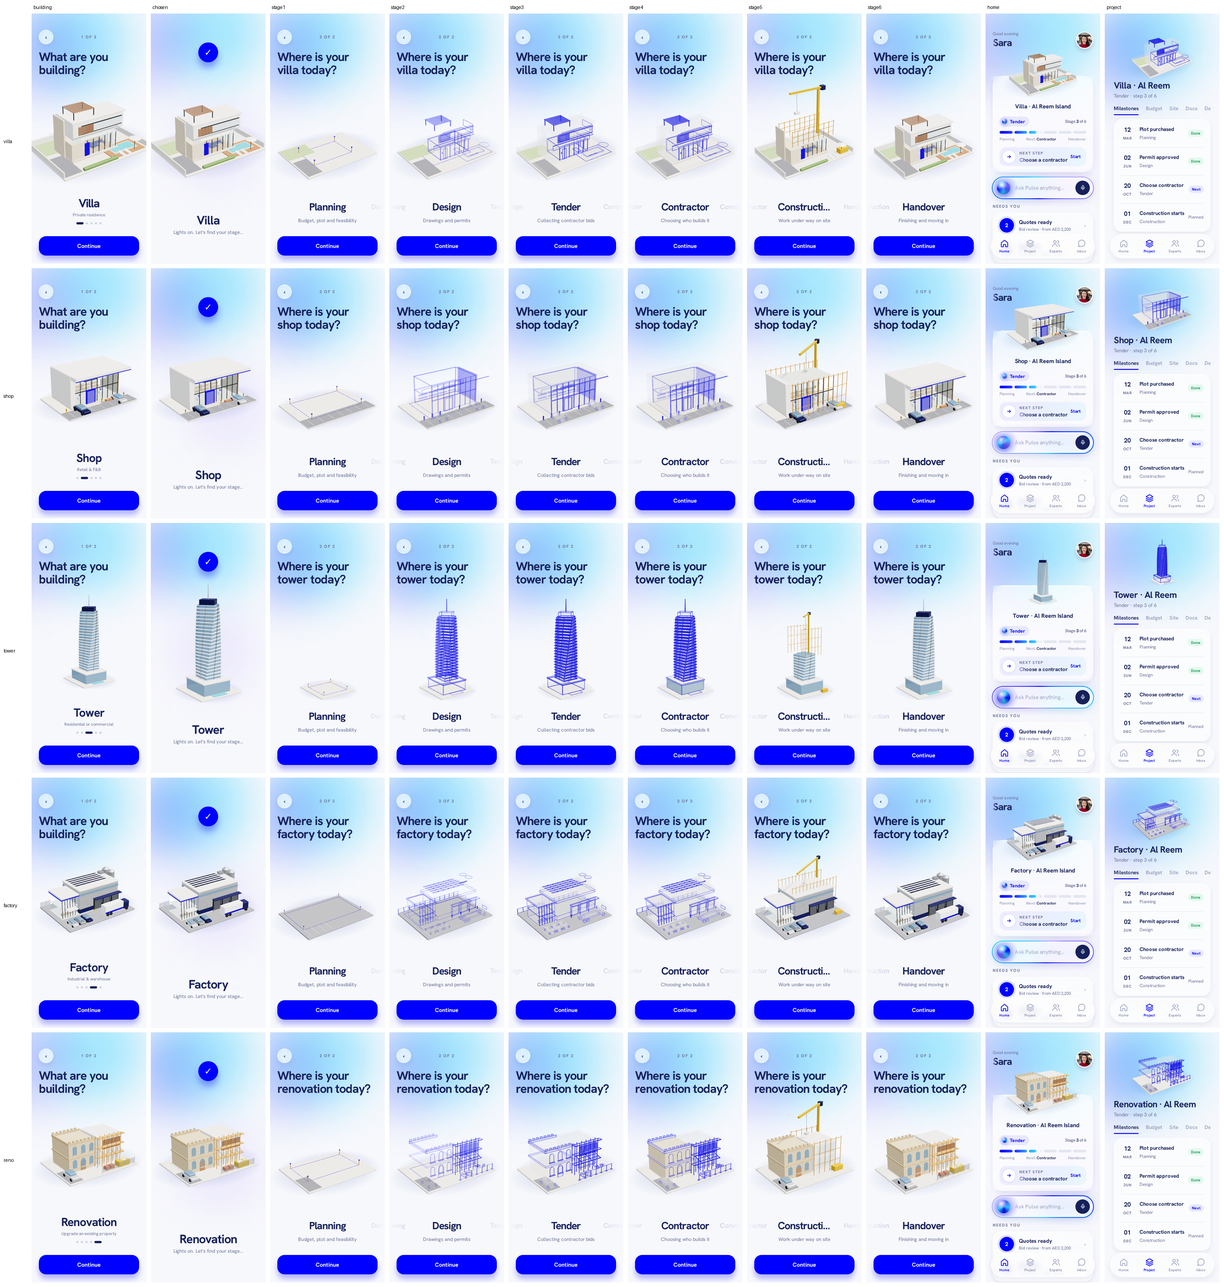
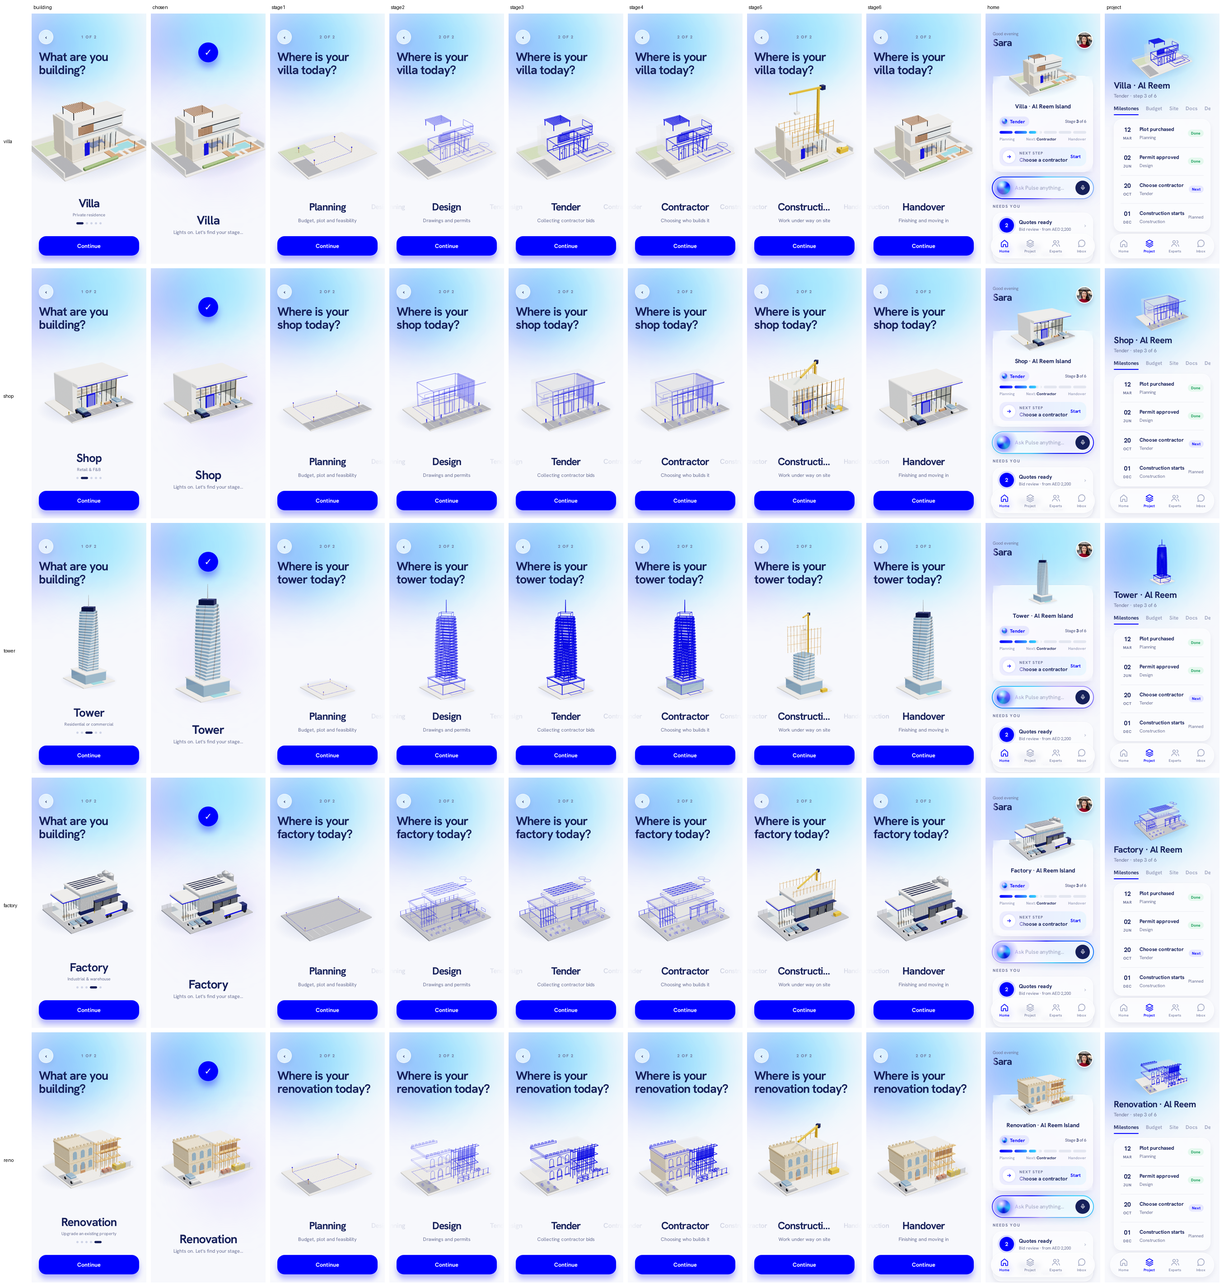
perf(mobile): 3D stage build and draw calls for mid-range Android (Task 3 review)
- EdgesGeometry cached by shape (type + parameters, tagged RoundedBox shape, or
  uuid) and threshold; shared across meshes, models and remounts.
- RoundedBoxGeometry shared per shape (the tower had 44 identical plates).
- Wireframe baked to world space and merged: one LineSegments + one indexed
  ghost mesh per model (2 draws instead of 150-274).
- Tower: stage build 740 ms -> 21 ms (warm) / 76 ms (cold); model build
  805 ms -> 12 ms (V8, jest).
- Framing box includes the stage props for the derived models, and their crane
  is capped just above the model top, so stage 5 is never clipped (e.g. the
  3.6:1 Project header). Villa framing unchanged.
- Aspect 0/NaN/Infinity guarded (frame for 1:1 until laid out).
- Single dispose path for the warm material; disposeModel test spies on the
  shared palette; crop test projects box corners through a real camera.

diff --git a/mobile/src/three/models.ts b/mobile/src/three/models.ts
@@ -3,6 +3,7 @@ import * as THREE from 'three';
 import { Platform } from 'react-native';
 import { RoundedBoxGeometry } from 'three/addons/geometries/RoundedBoxGeometry.js';
 import { noiseTex, stripeTex, contactTex } from './textures';
+import { modelBox } from './frame';
 
 const nz = noiseTex(), nzFine = noiseTex(128, 190, 70, 10);
 
@@ -52,10 +53,22 @@ export const M = {
 };
 
 // ---------- primitives ----------
+/** RoundedBoxGeometry reports the unit BoxGeometry it starts from as its type/parameters, so its real shape is tagged
+ *  here for the stage edge cache. */
+/** They are also the costliest primitive to generate (a tower has 44 identical floor plates), so one instance per shape
+ *  is shared by every mesh, model and remount. Disposing it on unmount only frees its GPU buffers; a later render
+ *  re-uploads them. */
+const RBOX = new Map<string, any>();
+function rbox(w, h, d, s, r) {
+  const key = `RoundedBox:${w},${h},${d},${s},${r}`;
+  let g = RBOX.get(key);
+  if (!g) { g = new RoundedBoxGeometry(w, h, d, s, r); g.userData.shape = key; g.computeBoundingBox(); RBOX.set(key, g); }
+  return g;
+}
 export function part(parent, w, h, d, mat, x, y, z, o = {}) {
   const g = new THREE.Group(); g.position.set(x, y, z);
   const r = o.round ?? 0;
-  const geo = r > 0 ? new RoundedBoxGeometry(w, h, d, 3, Math.min(r, w / 2.01, h / 2.01, d / 2.01)) : new THREE.BoxGeometry(w, h, d);
+  const geo = r > 0 ? rbox(w, h, d, 3, Math.min(r, w / 2.01, h / 2.01, d / 2.01)) : new THREE.BoxGeometry(w, h, d);
   const m = new THREE.Mesh(geo, mat); m.position.y = h / 2;
   if (o.ry) g.rotation.y = o.ry; if (o.rx) m.rotation.x = o.rx; if (o.rz) m.rotation.z = o.rz;
   m.castShadow = o.cast !== false && mat !== M.glass; m.receiveShadow = true; g.add(m);
@@ -144,8 +157,8 @@ export function buildTower() {
   const n = 22;
   for (let i = 0; i < n; i++) {
     const g = new THREE.Group(); g.position.y = 4 + i * 1.05; g.rotation.y = i * 0.035; g.userData.rise = 0.1 + i * 0.035; solid.add(g);
-    const slab = new THREE.Mesh(new RoundedBoxGeometry(6.2, 0.2, 6.2, 3, 0.09), M.white); slab.position.y = 0.1; slab.castShadow = slab.receiveShadow = true; g.add(slab);
-    const gl = new THREE.Mesh(new RoundedBoxGeometry(5.8, 0.85, 5.8, 3, 0.3), M.glassDark); gl.position.y = 0.625; g.add(gl);
+    const slab = new THREE.Mesh(rbox(6.2, 0.2, 6.2, 3, 0.09), M.white); slab.position.y = 0.1; slab.castShadow = slab.receiveShadow = true; g.add(slab);
+    const gl = new THREE.Mesh(rbox(5.8, 0.85, 5.8, 3, 0.3), M.glassDark); gl.position.y = 0.625; g.add(gl);
     for (const [fx, fz] of [[2.95, 0], [-2.95, 0], [0, 2.95], [0, -2.95]]) { const f = new THREE.Mesh(new THREE.BoxGeometry(fz ? 0.08 : 0.35, 0.85, fz ? 0.35 : 0.08), M.alu); f.position.set(fx, 0.625, fz); g.add(f); }
   }
   part(solid, 4.6, 1.6, 4.6, M.navy, 0, 4 + n * 1.05, 0, { rise: 0.9, round: 0.1, ry: n * 0.035 });
@@ -174,8 +187,8 @@ function archGeo(w, h, depth = 0.08) {
 }
 function car(parent, x, z, mat, ry = 0, rise = 1.0) {
   const g = grp(parent, rise); g.position.set(x, 0, z); g.rotation.y = ry;
-  mesh(g, new RoundedBoxGeometry(1.8, 0.62, 4.1, 3, 0.22), mat, 0, 0.55, 0);
-  mesh(g, new RoundedBoxGeometry(1.6, 0.55, 2.2, 3, 0.22), M.glassDark, 0, 1.05, -0.2);
+  mesh(g, rbox(1.8, 0.62, 4.1, 3, 0.22), mat, 0, 0.55, 0);
+  mesh(g, rbox(1.6, 0.55, 2.2, 3, 0.22), M.glassDark, 0, 1.05, -0.2);
   for (const [wx, wz] of [[-0.85, 1.3], [0.85, 1.3], [-0.85, -1.3], [0.85, -1.3]]) mesh(g, new THREE.CylinderGeometry(0.33, 0.33, 0.24, 18), M2.rubber, wx, 0.33, wz, 0, 0, Math.PI / 2);
   return g;
 }
@@ -259,9 +272,9 @@ export function buildFactory() {
   const pipe = grp(solid, 0.55); mesh(pipe, new THREE.CylinderGeometry(0.16, 0.16, 3, 12), M.alu, 11.0, 6.5, -5.05, 0, 0, Math.PI / 2);
   // articulated truck backing into dock 2
   const tr = grp(solid, 0.95); tr.position.set(4.6, 0, 6.8); tr.rotation.y = Math.PI / 2;
-  mesh(tr, new RoundedBoxGeometry(2.3, 2.7, 7, 3, 0.08), M.white, 0, 1.9, 0);
+  mesh(tr, rbox(2.3, 2.7, 7, 3, 0.08), M.white, 0, 1.9, 0);
   mesh(tr, new THREE.BoxGeometry(2.32, 0.5, 6.9), M.blue, 0, 1.1, 0);
-  mesh(tr, new RoundedBoxGeometry(2.3, 2.3, 2.1, 3, 0.25), M.navy, 0, 1.75, 4.7);
+  mesh(tr, rbox(2.3, 2.3, 2.1, 3, 0.25), M.navy, 0, 1.75, 4.7);
   mesh(tr, new THREE.BoxGeometry(2.0, 0.9, 0.05), M.glassDark, 0, 2.2, 5.76);
   for (const wz of [-2.6, -1.4, 4.8]) for (const wx of [-1.1, 1.1]) mesh(tr, new THREE.CylinderGeometry(0.5, 0.5, 0.35, 20), M2.rubber, wx, 0.5, wz, 0, 0, Math.PI / 2);
   // staff cars
@@ -362,23 +375,58 @@ export function deriveStageParams(v, o: Partial<StageParams> = {}): StageParams 
   const top = Math.max(core.max.y, next.max.y);
   const cx = core.max.x + 1.6, cz = core.min.z - 1.6, tx = (core.min.x + core.max.x) / 2, tz = (core.min.z + core.max.z) / 2;
   const dist = Math.hypot(tx - cx, tz - cz);
-  const crane = { x: r2(cx), z: r2(cz), h: r2(Math.max(12, top + 4)), ry: Math.atan2(tz - cz, -(tx - cx)), reach: r2(dist + 1.8),
-    hook: r2(dist * 0.75), loadY: r2(Math.min(top + 0.8, Math.max(12, top + 4) - 4.9)), ...o.crane };
+  // crane: clear of the built part, but no taller than just over the finished model, so the stage-5 props barely
+  // grow the framing box (low-rise models otherwise get a crane twice their height, clipped in short headers)
+  const full = riseBox(v.solid, -Infinity, Infinity);
+  const ch = Math.max(Math.min(Math.max(12, top + 4), full.max.y + 0.5), core.max.y + 1);
+  const crane = { x: r2(cx), z: r2(cz), h: r2(ch), ry: Math.atan2(tz - cz, -(tx - cx)), reach: r2(dist + 1.8),
+    hook: r2(dist * 0.75), loadY: r2(Math.max(1, Math.min(top + 0.8, ch - 4.9))), ...o.crane };
   return { footprint: fp, scaffold, crane, cabin: o.cabin ?? [r2(core.max.x - 1.2), r2(core.max.z + 1.8)], edgeAngle: o.edgeAngle };
+}
+
+// EdgesGeometry is the expensive part of a stage build (a tower has ~140 meshes but only a handful of distinct shapes).
+// Edge lists are cached by shape (geometry type + parameters, or uuid when it has none) and threshold, and shared
+// across meshes, models and remounts. They are plain arrays, never uploaded, so nothing here needs disposing.
+const EDGE_CACHE = new Map<string, Float32Array>();
+export const edgeCacheSize = () => EDGE_CACHE.size;
+function edgesOf(geo, angle): Float32Array {
+  const shape = geo.userData.shape ?? (geo.parameters && !(geo instanceof RoundedBoxGeometry) ? `${geo.type}:${JSON.stringify(geo.parameters)}` : geo.uuid);
+  const key = `${angle}|${shape}`;
+  let e = EDGE_CACHE.get(key);
+  if (!e) { const eg = new THREE.EdgesGeometry(geo, angle); e = eg.getAttribute('position').array as Float32Array; eg.dispose(); EDGE_CACHE.set(key, e); }
+  return e;
+}
+const _v = new THREE.Vector3();
+function mergeEdges(meshes, angle) {
+  const parts = meshes.map((m) => edgesOf(m.geometry, angle));
+  const out = new Float32Array(parts.reduce((n, a) => n + a.length, 0)); let k = 0;
+  meshes.forEach((m, i) => { const a = parts[i]; for (let j = 0; j < a.length; j += 3) { _v.set(a[j], a[j + 1], a[j + 2]).applyMatrix4(m.matrixWorld); out[k++] = _v.x; out[k++] = _v.y; out[k++] = _v.z; } });
+  return new THREE.BufferGeometry().setAttribute('position', new THREE.BufferAttribute(out, 3));
+}
+/** Every ghost volume in one indexed, position-only geometry (the ghost material is unlit). */
+function mergeGhost(meshes) {
+  let nv = 0, ni = 0;
+  for (const m of meshes) { const g = m.geometry, c = g.getAttribute('position').count; nv += c; ni += g.index ? g.index.count : c; }
+  const pos = new Float32Array(nv * 3), idx = nv > 65535 ? new Uint32Array(ni) : new Uint16Array(ni); let pv = 0, pi = 0;
+  for (const m of meshes) {
+    const g = m.geometry, pa = g.getAttribute('position'), base = pv;
+    for (let j = 0; j < pa.count; j++) { _v.fromBufferAttribute(pa, j).applyMatrix4(m.matrixWorld); pos[pv * 3] = _v.x; pos[pv * 3 + 1] = _v.y; pos[pv * 3 + 2] = _v.z; pv++; }
+    if (g.index) for (let j = 0; j < g.index.count; j++) idx[pi++] = base + g.index.getX(j); else for (let j = 0; j < pa.count; j++) idx[pi++] = base + j;
+  }
+  return new THREE.BufferGeometry().setAttribute('position', new THREE.BufferAttribute(pos, 3)).setIndex(new THREE.BufferAttribute(idx, 1));
 }
 
 export function makeStages(v, p: StageParams) {
   if (v.wire) return v;
   const geos = [];
   const G = (g) => { geos.push(g); return g; };
-  // wireframe hologram of the building: edges (same material as the villa) + ghosted volumes sharing the solid geometry
-  const wire = new THREE.Group(), lines = new THREE.Group(), ghost = new THREE.Group(); wire.add(lines, ghost); v.root.add(wire);
-  v.solid.traverse((o) => {
-    if (o.isMesh && o.geometry.type !== 'SphereGeometry' && o.geometry.type !== 'PlaneGeometry') {
-      const e = new THREE.LineSegments(G(new THREE.EdgesGeometry(o.geometry, p.edgeAngle ?? 25)), M.line); e.applyMatrix4(o.matrixWorld); lines.add(e);
-      const gm = new THREE.Mesh(o.geometry, M.ghost); gm.applyMatrix4(o.matrixWorld); ghost.add(gm);
-    }
-  });
+  // wireframe hologram of the building: edges (same material as the villa) + ghosted volumes, each baked into ONE
+  // world-space geometry (two draw calls however many parts the model has)
+  const meshes = [];
+  v.solid.traverse((o) => { if (o.isMesh && o.geometry.type !== 'SphereGeometry' && o.geometry.type !== 'PlaneGeometry') meshes.push(o); });
+  const lines = new THREE.LineSegments(G(mergeEdges(meshes, p.edgeAngle ?? 25)), M.line);
+  const ghost = new THREE.Mesh(G(mergeGhost(meshes)), M.ghost);
+  const wire = new THREE.Group(); wire.add(lines, ghost); v.root.add(wire);
   // survey: dashed footprint + corner pegs with blue flags
   const survey = new THREE.Group(), pegs = new THREE.Group(); v.root.add(survey);
   const [x0, z0, x1, z1] = p.footprint;
@@ -403,7 +451,7 @@ export function makeStages(v, p: StageParams) {
   const cable = new THREE.Mesh(G(new THREE.CylinderGeometry(0.015, 0.015, c.h - c.loadY - 0.4, 4)), M.frame); cable.position.set(-c.hook, (c.h + c.loadY + 0.5) / 2, 0); crane.add(cable);
   box(1.2, 0.5, 0.8, M.concrete2, -c.hook, c.loadY, 0); // load on the hook
   const cabin = new THREE.Group(); cabin.position.set(p.cabin[0], 0, p.cabin[1]); build.add(cabin);
-  const cm = new THREE.Mesh(G(new RoundedBoxGeometry(2.4, 1.1, 1.3, 3, 0.05)), M.yellow); cm.position.y = 0.55; cm.castShadow = cm.receiveShadow = true; cabin.add(cm);
+  const cm = new THREE.Mesh(G(rbox(2.4, 1.1, 1.3, 3, 0.05)), M.yellow); cm.position.y = 0.55; cm.castShadow = cm.receiveShadow = true; cabin.add(cm);
   for (const g of [wire, survey, build]) { g.userData.stageVariant = true; g.visible = false; }
   Object.assign(v, { wire, survey, build, stageGeos: geos });
   return v;
@@ -416,7 +464,7 @@ export function applyStage(v, stage) {
   if (on) {
     v.survey.visible = st <= 2; v.survey.children[1].visible = st === 1;
     v.wire.visible = st >= 2 && st <= 4; v.wire.children[1].visible = st >= 3;
-    const lm = st === 2 ? lineSoft : M.line; for (const l of v.wire.children[0].children) l.material = lm;
+    v.wire.children[0].material = st === 2 ? lineSoft : M.line;
     v.build.visible = st === 5;
   }
   v.solid.visible = !on || st >= 4;
@@ -432,7 +480,7 @@ export function applyStage(v, stage) {
 export function stageSignature(v) {
   const held = v.solid.children.filter((g) => g.userData.hold).length;
   return JSON.stringify({ survey: v.survey?.visible, pegs: v.survey?.children[1].visible, wire: v.wire?.visible, ghost: v.wire?.children[1].visible,
-    soft: v.wire?.children[0].children[0]?.material === lineSoft, solid: v.solid.visible, held, build: v.build?.visible });
+    soft: v.wire?.children[0].material === lineSoft, solid: v.solid.visible, held, build: v.build?.visible });
 }
 
 const SHARED = new Set<any>();
@@ -456,6 +504,31 @@ export const STAGE_OVERRIDES = {
     crane: { x: 7.4, z: -4.9, h: 12, ry: 0, reach: 7.85, hook: 6.0, loadY: 7.1 }, cabin: [7.0, 4.8], edgeAngle: 30 },
   shop: {}, tower: { edgeAngle: 10 }, factory: {}, reno: {}, // tower: its rounded floor plates' facets are shallower than 25°
 };
+/** Everything the stage props can occupy (survey pegs, scaffold, crane with its jib, cabin), from the parameters alone,
+ *  so a screen can frame them without building them. */
+export function stageExtent(p: StageParams): THREE.Box3 {
+  const b = new THREE.Box3(), P = (x, y, z) => b.expandByPoint(_v.set(x, y, z));
+  const [x0, z0, x1, z1] = p.footprint; for (const x of [x0, x1]) for (const z of [z0, z1]) { P(x, 0, z); P(x, 1.4, z); }
+  const s = p.scaffold; for (const x of [s.x0, s.x1]) for (const z of s.zs) { P(x, s.y0, z); P(x, s.y0 + s.h, z); }
+  const c = p.crane, Y = new THREE.Vector3(0, 1, 0);
+  for (const [lx, ly, lz] of [[0, 0, 0.25], [0, 0, -0.25], [-c.reach, c.h + 0.4, 0.2], [-c.reach, c.h + 0.4, -0.2], [1.7, c.h + 0.6, 0.5], [1.7, c.h + 0.6, -0.5]]) {
+    const q = new THREE.Vector3(lx, ly, lz).applyAxisAngle(Y, c.ry); P(c.x + q.x, q.y, c.z + q.z);
+  }
+  for (const dx of [-1.2, 1.2]) for (const dz of [-0.65, 0.65]) { P(p.cabin[0] + dx, 0, p.cabin[1] + dz); P(p.cabin[0] + dx, 1.1, p.cabin[1] + dz); }
+  return b;
+}
+
+/** The box a screen frames: the finished model and plot, plus (for the derived models) every stage prop, so the camera
+ *  is the same at every stage and nothing is clipped at any of them. The villa keeps its approved framing box. */
+export function framingBox(model, v): THREE.Box3 {
+  const sy = v.solid.children.map((c) => c.scale.y); v.solid.children.forEach((c) => { c.scale.y = 1; });
+  v.root.updateMatrixWorld(true);
+  const box = modelBox(v.root);
+  if (model !== 'villa') box.union(stageExtent(deriveStageParams(v, STAGE_OVERRIDES[model] ?? {})));
+  v.solid.children.forEach((c, i) => { c.scale.y = sy[i]; }); v.root.updateMatrixWorld(true);
+  return box;
+}
+
 /** Adds the stage variants to a built model (once). Measured at full height: the rise animation may already have
  *  squashed parts by the time a screen first asks for a stage. */
 export function stagesFor(model, v) {

diff --git a/mobile/__tests__/three.test.ts b/mobile/__tests__/three.test.ts
@@ -1,6 +1,6 @@
 import * as THREE from 'three';
 import { noiseTex, stripeTex, contactTex } from '@/three/textures';
-import { buildVilla, buildShop, buildTower, buildFactory, buildReno, stagesFor, applyStage, stageSignature, disposeModel, deriveStageParams, STAGE_OVERRIDES } from '@/three/models';
+import { buildVilla, buildShop, buildTower, buildFactory, buildReno, stagesFor, applyStage, stageSignature, disposeModel, deriveStageParams, STAGE_OVERRIDES, edgeCacheSize, framingBox, M } from '@/three/models';
 import { modelBox, fitBox, frameFor, radiusDistance, PAD } from '@/three/frame';
 import { shouldUpdateShadows, SHADOW_WINDOW_MS } from '@/three/shadow';
 
@@ -21,7 +21,11 @@ test('every approved model builds with rising parts and no trees', () => {
 
 test.each(Object.keys(MODELS))('%s has survey, wireframe and construction variants and six distinct stages', (id) => {
   const v = stagesFor(id, (MODELS as any)[id]());
-  expect(v.wire.children[0].children.length).toBeGreaterThan(0);
+  // the whole hologram is two draw calls: one merged LineSegments and one merged ghost mesh
+  expect(v.wire.children.length).toBe(2);
+  expect(v.wire.children[0].isLineSegments).toBe(true);
+  expect(v.wire.children[0].geometry.getAttribute('position').count).toBeGreaterThan(0);
+  expect(v.wire.children[1].geometry.index.count).toBeGreaterThan(0);
   expect(v.survey.children.length).toBeGreaterThan(0);
   expect(v.build.children.length).toBeGreaterThan(0);
   const sigs = [1, 2, 3, 4, 5, 6].map((s) => { applyStage(v, s); return stageSignature(v); });
@@ -41,6 +45,65 @@ test('the villa keeps its approved hand-placed survey, scaffold and crane', () =
 test('stage variants do not change a model\'s bounds', () => {
   const v = buildTower(); const before = modelBox(v.root); stagesFor('tower', v);
   expect(modelBox(v.root).equals(before)).toBe(true);
+});
+
+test('edge lists are cached by shape: a second build of the same model computes none', () => {
+  const n0 = edgeCacheSize(); stagesFor('tower', buildTower()); const n = edgeCacheSize();
+  expect(n - n0).toBeLessThan(30); // ~140 meshes, a handful of shapes (0 if an earlier test already built a tower)
+  const v = stagesFor('tower', buildTower());
+  expect(edgeCacheSize()).toBe(n);
+  // baked world-space edges: the merged line spans the whole tower
+  v.wire.children[0].geometry.computeBoundingBox();
+  expect(v.wire.children[0].geometry.boundingBox.max.y).toBeGreaterThan(25);
+});
+
+test('disposeModel frees the model and stage geometries but never the shared palette', () => {
+  const v = stagesFor('shop', buildShop());
+  const shared = [M.concrete, M.glass, M.line, M.ghost, M.ghostLine, M.orange, M.yellow].map((m: any) => jest.spyOn(m, 'dispose'));
+  const geos: any[] = []; v.root.traverse((o: any) => { if (o.geometry) geos.push(jest.spyOn(o.geometry, 'dispose')); });
+  let contact: any; v.root.traverse((o: any) => { if (o.userData.noBounds) contact = jest.spyOn(o.material, 'dispose'); });
+  disposeModel(v);
+  for (const s of shared) expect(s).not.toHaveBeenCalled();
+  for (const g of geos) expect(g).toHaveBeenCalled();
+  expect(contact).toHaveBeenCalled(); // per-model material
+  shared.forEach((s) => s.mockRestore());
+});
+
+test('framing guards an unlaid-out canvas (aspect 0 / NaN / Infinity)', () => {
+  const villa = modelBox(buildVilla().root), box = framingBox('tower', buildTower());
+  const ref = { radius: 9.2, target: [0, 1.8, 0] as [number, number, number], height: 0.5 };
+  for (const a of [0, NaN, Infinity]) {
+    const f = frameFor(ref, villa, 0.5, box, 0.22, a);
+    expect(Number.isFinite(f.distance) && f.distance > 0).toBe(true);
+    expect(f).toEqual(frameFor(ref, villa, 0.5, box, 0.22, 1));
+  }
+});
+
+test('stage-5 props (scaffold, crane, cabin) lie inside each derived model\'s framing box', () => {
+  for (const id of ['shop', 'tower', 'factory', 'reno']) {
+    const v = (MODELS as any)[id](); const box = framingBox(id, v).expandByScalar(0.05); stagesFor(id, v);
+    for (const g of [v.build, v.survey]) { g.visible = true; expect(box.containsBox(new THREE.Box3().setFromObject(g))).toBe(true); }
+  }
+});
+
+test('never cropped: every framing-box corner projects inside the view through a real camera, at many yaws', () => {
+  const villa = modelBox(buildVilla().root);
+  const screens = [[9.2, 1.8, 0.5, 1.45], [9.8, 1.8, 0.5, 1.19], [11.2, 3.4, 0.5, 1.45], [9.4, 2.2, 0.42, 1.36], [8.5, 2.8, 0.5, 3.6]];
+  const cam = new THREE.PerspectiveCamera(22, 1, 0.1, 400), p = new THREE.Vector3();
+  for (const [r, y, hh, aspect] of screens) for (const [id, h] of [['tower', 0.22], ['factory', 0.5], ['shop', 0.42], ['reno', 0.45]] as const) {
+    const box = framingBox(id, (MODELS as any)[id]());
+    const f = frameFor({ radius: r, target: [0, y, 0], height: hh }, villa, 0.5, box, h, aspect);
+    cam.aspect = aspect; cam.updateProjectionMatrix();
+    for (let k = 0; k < 37; k++) { // 10° steps, off the 15° grid the fit samples
+      const yaw = 0.13 + k * (Math.PI / 18), t = f.target;
+      cam.position.set(t[0] + Math.sin(yaw) * f.distance, t[1] + f.distance * f.height, t[2] + Math.cos(yaw) * f.distance);
+      cam.lookAt(t[0], t[1], t[2]); cam.updateMatrixWorld();
+      for (const cx of [box.min.x, box.max.x]) for (const cy of [box.min.y, box.max.y]) for (const cz of [box.min.z, box.max.z]) {
+        p.set(cx, cy, cz).project(cam);
+        expect(Math.max(Math.abs(p.x), Math.abs(p.y))).toBeLessThanOrEqual(1 / PAD + 0.02);
+      }
+    }
+  }
 });
 
 test('framing: the villa keeps its approved camera; every other model is whole, with padding, on every screen', () => {

diff --git a/mobile/src/three/Scene.tsx b/mobile/src/three/Scene.tsx
@@ -3,8 +3,8 @@ import { useFrame, useThree } from '@react-three/fiber';
 import { RoomEnvironment } from 'three/addons/environments/RoomEnvironment.js';
 import { useEffect, useMemo, useRef } from 'react';
 import { shouldUpdateShadows } from './shadow';
-import { buildVilla, buildShop, buildTower, buildFactory, buildReno, stagesFor, applyStage, disposeModel, M } from './models';
-import { Frame, frameFor, modelBox } from './frame';
+import { buildVilla, buildShop, buildTower, buildFactory, buildReno, stagesFor, applyStage, disposeModel, framingBox, M } from './models';
+import { Frame, frameFor } from './frame';
 
 export type ModelId = 'villa' | 'shop' | 'tower' | 'factory' | 'reno';
 export type StageView = 1 | 2 | 3 | 4 | 5 | 6 | 'solid';
@@ -16,7 +16,7 @@ const easeOutBack = (t: number) => { const c1 = 1.25, c3 = c1 + 1; return 1 + c3
 /** Bounds of each finished model, measured once (a model built only to be measured is freed straight away). */
 const BOX: Partial<Record<ModelId, THREE.Box3>> = {};
 function boxOf(model: ModelId, built?: any): THREE.Box3 {
-  if (!BOX[model]) { const m = built ?? BUILD[model](); BOX[model] = modelBox(m.root); if (!built) disposeModel(m); }
+  if (!BOX[model]) { const m = built ?? BUILD[model](); BOX[model] = framingBox(model, m); if (!built) disposeModel(m); }
   return BOX[model]!;
 }
 
@@ -28,10 +28,11 @@ export function Scene({ model, stage = 'solid', lights = 0.25, frame, spin = 0.1
   const { gl, scene, camera, size } = useThree();
   const m = useMemo(() => { const x: any = BUILD[model](); boxOf(model, x); return x; }, [model]);
   const warm = useMemo(() => { const w = M.warm.clone(); m.solid.traverse((o: any) => { if (o.isMesh && o.material === M.warm) o.material = w; }); return w; }, [m]);
-  useEffect(() => () => { disposeModel(m); warm.dispose(); }, [m, warm]); // geometries (stage variants included) + per-model materials
+  useEffect(() => () => disposeModel(m), [m]); // geometries (stage variants included) + per-model materials (the warm clone too)
   const yaw = useRef(yaw0); const riseT0 = useRef<number | null>(null); const buildT0 = useRef<number | null>(null);
 
-  const aspect = Math.round((size.width / Math.max(1, size.height)) * 100) / 100;
+  // before layout (0×0) or mid-transition the canvas can report no size: frame for a square until it has one
+  const aspect = size.width > 0 && size.height > 0 ? Math.round((size.width / size.height) * 100) / 100 : 1;
   const [fr, fy, fz] = frame.target;
   const view = useMemo(() => frameFor(frame, boxOf('villa'), MODEL_HEIGHT.villa, boxOf(model), MODEL_HEIGHT[model], aspect, model === 'villa'),
     // eslint-disable-next-line react-hooks/exhaustive-deps

diff --git a/mobile/src/three/frame.ts b/mobile/src/three/frame.ts
@@ -51,6 +51,7 @@ export function fitBox(box: THREE.Box3, height: number, aspect: number, fovDeg =
 
 /** The horizontal camera distance Scene uses for a framing radius (unchanged from the approved turntable). */
 export function radiusDistance(radius: number, aspect: number, fovDeg = 22): number {
+  if (!(aspect > 0) || !Number.isFinite(aspect)) aspect = 1;
   const vh = THREE.MathUtils.degToRad(fovDeg) / 2, hh = Math.atan(Math.tan(vh) * aspect);
   return Math.max(radius / Math.tan(vh), radius / Math.tan(hh));
 }
@@ -64,6 +65,7 @@ export const PAD = 1.1;
  *  The villa itself gets exactly `ref` (approved). Any other model is never closer than a padded fit around the
  *  actual target, so nothing (top, base or sides) is ever cut, however tall or wide it is. */
 export function frameFor(ref: Frame, refBox: THREE.Box3, refHeight: number, box: THREE.Box3, height: number, aspect: number, isRef = false) {
+  if (!(aspect > 0) || !Number.isFinite(aspect)) aspect = 1; // unlaid-out canvas: 0, NaN or Infinity
   if (isRef) return { distance: radiusDistance(ref.radius, aspect), target: ref.target, height: ref.height };
   const h = ref.height * (height / refHeight);
   const a = fitBox(refBox, ref.height, aspect), b = fitBox(box, h, aspect);
